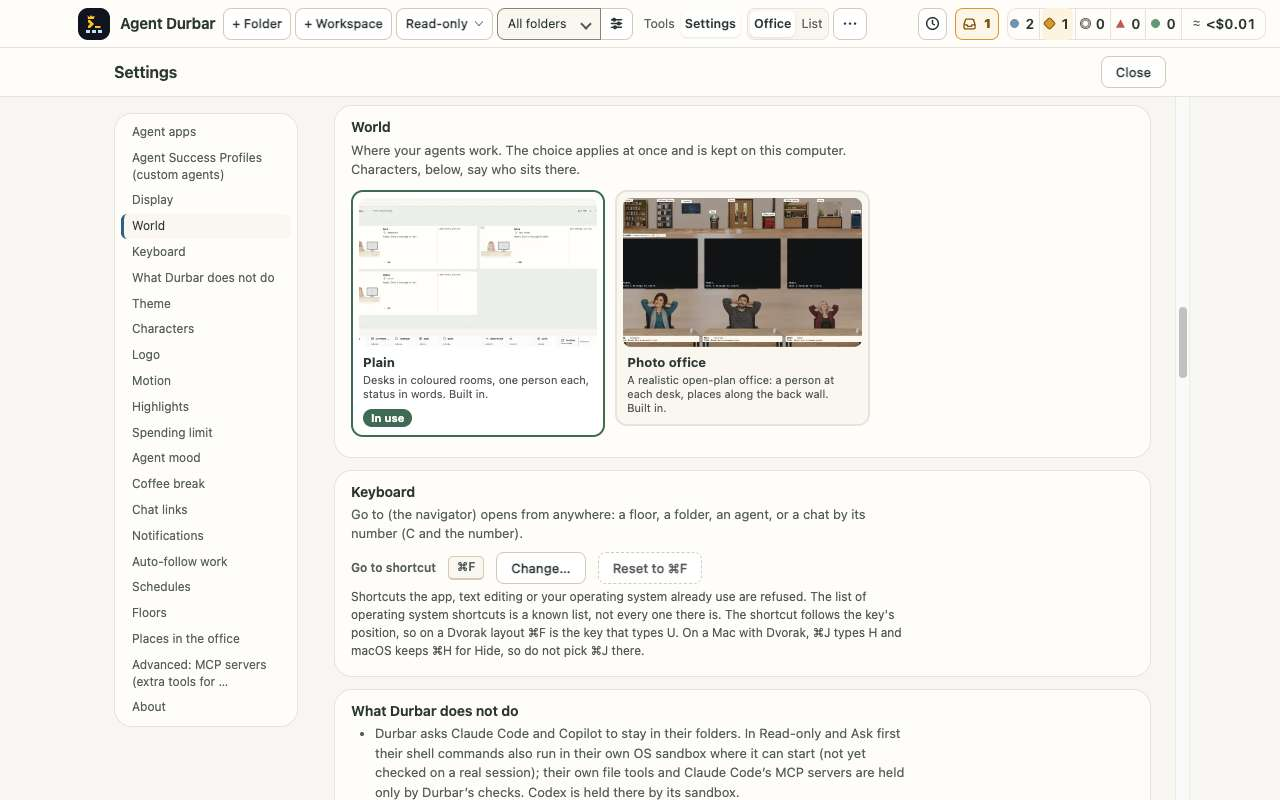
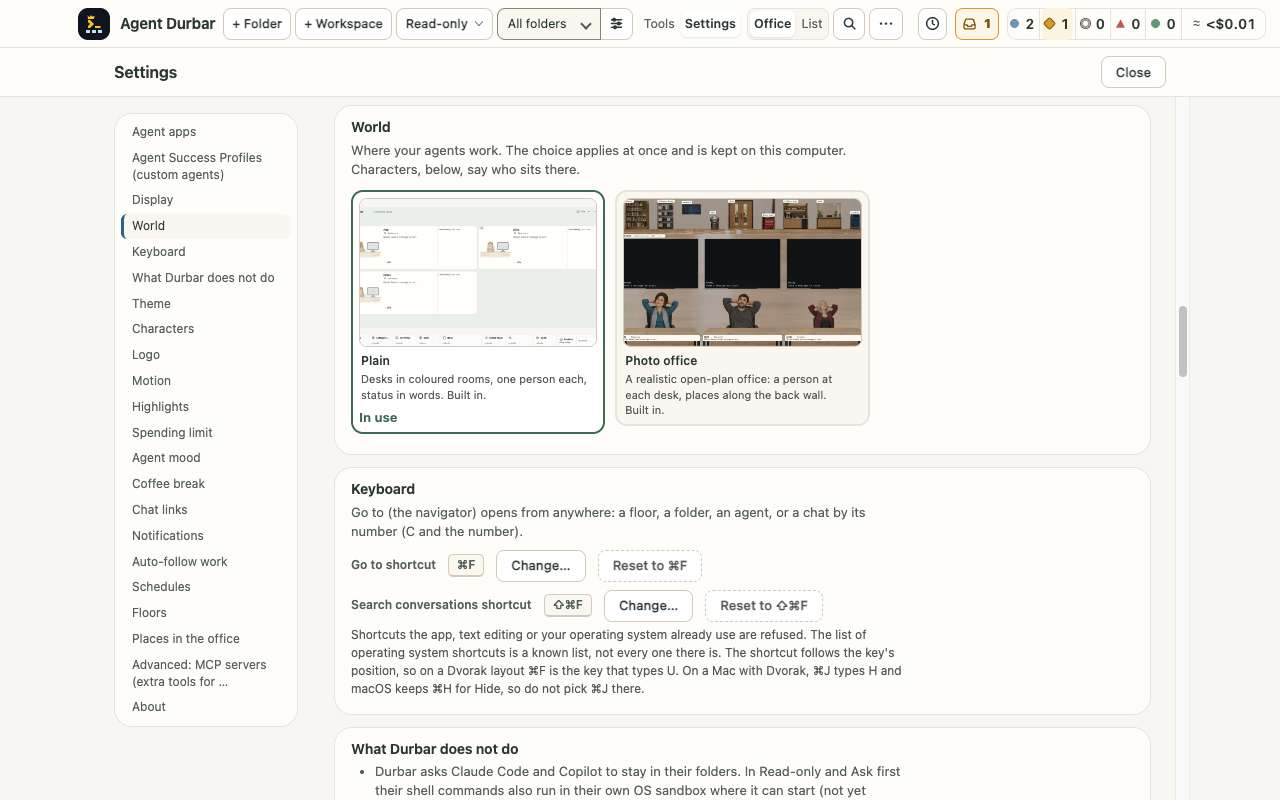
102: World cards reuse the picker card; pictures at the merged head
Refs #1400

diff --git a/src/renderer/screens.css b/src/renderer/screens.css
@@ -546,20 +546,18 @@ body.has-bridge #topBtns{display:flex}
 #screen:has(.scr-nav) .scr-head,html[data-platform="darwin"] .notice-strip:not([hidden]) ~ #screen:has(.scr-nav) .scr-head{--sn-pad:max(calc(var(--s-1)*6),calc(50% - var(--s-1)*131.5));padding-left:var(--sn-pad);padding-right:var(--sn-pad)}
 @media (max-width:759px){#screen:has(.scr-nav) .scr-head{padding-left:calc(var(--s-1)*6);padding-right:calc(var(--s-1)*6)}}
 
-/* ---- spec 102 FR-301 (T266): the World section, picture cards in one radio group ---- */
+/* ---- spec 102 FR-301 (T266): the World section, picture cards in one radio group (the theme picker's card, .thpick, with a picture) ---- */
 .wcards{grid-template-columns:repeat(auto-fill,minmax(220px,1fr))}
-.wcard{position:relative;display:flex;flex-direction:column;align-items:stretch;gap:6px;width:100%;min-height:44px;padding:6px;border:2px solid var(--line);border-radius:12px;background:var(--surface-2);cursor:pointer;text-align:left;font:inherit;color:var(--ink)}
-.wcard:hover{border-color:var(--line-2);background:var(--raised)}
-.wcard[aria-checked=true]{border-color:var(--accent);background:var(--raised)}
-.wcard:focus-visible{outline:2px solid var(--focus);outline-offset:3px} /* outside the card with a gap: focus never looks like the 2 px chosen edge */
-.wpic{display:block;overflow:hidden;border-radius:8px;aspect-ratio:8/5;background:var(--surface)}
+.thpick[data-world]{border-width:2px}
+.thpick[data-world]:hover{border-color:var(--line-2);background:var(--raised)}
+.thpick[data-world][aria-checked=true]{border-color:var(--accent);background:var(--raised)}
+.thpick[data-world]:focus-visible{outline:2px solid var(--focus);outline-offset:3px} /* outside the card with a gap: focus never looks like the 2 px chosen edge */
+.thpick[data-world] .wpic{height:auto;aspect-ratio:8/5;background:var(--surface)}
 .wpic img{display:block;width:100%;height:100%;object-fit:cover;transform-origin:var(--zx,50%) var(--zy,50%);transition:transform 220ms ease-out}
-.wcard:hover .wpic img,.wcard:focus-visible .wpic img{transform:scale(1.6)} /* FR-301: by transform only, inside the clip, toward the people: nothing around it moves */
+.thpick[data-world]:hover .wpic img,.thpick[data-world]:focus-visible .wpic img{transform:scale(1.6)} /* FR-301: by transform only, inside the clip, toward the people: nothing around it moves */
 html[data-motion-off] .wpic img{transition:none;transform:none!important}
 @media (prefers-reduced-motion:reduce){.wpic img{transition:none;transform:none!important}}
-.wnone{display:flex;align-items:center;justify-content:center;border:1px solid var(--line);font-size:12px;color:var(--muted)}
-.wtx{display:flex;flex-direction:column;gap:2px;min-width:0;padding:0 4px 2px}
-.wtx b{font-size:13px}
-.wtx small{font-size:11px;line-height:1.3;color:var(--muted)}
-.wuse{align-self:flex-start;margin:0 4px 2px;padding:1px 8px;border-radius:999px;background:var(--accent);color:var(--surface);font-size:11px;font-weight:700}
-@media (forced-colors:active){.wcard[aria-checked=true]{border-color:Highlight}.wcard:focus-visible{outline:2px solid CanvasText}.wuse{border:1px solid ButtonText;background:Canvas;color:CanvasText;forced-color-adjust:none}}
+.wnone{display:flex;align-items:center;justify-content:center;color:var(--muted)}
+.thpick[data-world] .thtx small{white-space:normal;overflow:visible}
+.wuse{align-self:flex-start;color:var(--accent)}
+@media (forced-colors:active){.thpick[data-world][aria-checked=true]{border-color:Highlight}.thpick[data-world]:focus-visible{outline:2px solid CanvasText}.wuse{color:CanvasText}}

diff --git a/scripts/check-settings-worlds.js b/scripts/check-settings-worlds.js
@@ -42,7 +42,7 @@ module.exports = async (ctx) => {
   };
   const names = () => js(`[...document.querySelectorAll(${jsLiteral(CARDS)})].map(b=>b.dataset.world)`);
   const checked = () => js(`[...document.querySelectorAll(${jsLiteral(CARDS)})].filter(b=>b.getAttribute('aria-checked')==='true').map(b=>b.dataset.world)`);
-  const rects = () => js(`[...document.querySelectorAll('#wrGroup, #wrGroup .wcard, #wrGroup .wcard .wpic, #wrGroup .wcard .wtx')].map(e=>{const r=e.getBoundingClientRect();return [Math.round(r.left*10),Math.round(r.top*10),Math.round(r.width*10),Math.round(r.height*10)].join(',')}).join('|')`);
+  const rects = () => js(`[...document.querySelectorAll('#wrGroup, #wrGroup [data-world], #wrGroup [data-world] .wpic, #wrGroup [data-world] .thtx')].map(e=>{const r=e.getBoundingClientRect();return [Math.round(r.left*10),Math.round(r.top*10),Math.round(r.width*10),Math.round(r.height*10)].join(',')}).join('|')`);
 
   for (const [w, h] of SIZES) {
     for (const [wname, query] of [['flat', { officeview: 'flat' }], ['real', { officeview: 'real' }]]) {
@@ -66,7 +66,7 @@ module.exports = async (ctx) => {
       assert.deepStrictEqual(await checked(), [want], `${tag}: exactly one card is checked, the one in use`);
       const look = await js(`(()=>{const probe=document.createElement('i');probe.style.color='var(--accent)';document.body.appendChild(probe);const acc=getComputedStyle(probe).color;probe.remove();
         return [...document.querySelectorAll(${jsLiteral(CARDS)})].map(b=>{const cs=getComputedStyle(b),r=b.getBoundingClientRect(),use=b.querySelector('.wuse');
-          const t=[...b.querySelectorAll('.wtx b,.wtx small,.wuse')].map(e=>parseFloat(getComputedStyle(e).fontSize));
+          const t=[...b.querySelectorAll('.thtx b,.thtx small,.wuse')].map(e=>parseFloat(getComputedStyle(e).fontSize));
           return {id:b.dataset.world,on:b.getAttribute('aria-checked')==='true',tab:b.tabIndex,bw:parseFloat(cs.borderTopWidth),bc:cs.borderTopColor,acc,use:use?use.textContent:'',h:r.height,w:r.width,minText:Math.min(...t),name:(document.getElementById(b.getAttribute('aria-labelledby'))||{}).textContent}})})()`);
       assert.strictEqual(look.filter((c) => c.tab === 0).length, 1, `${tag}: one Tab stop`);
       for (const c of look) {
@@ -105,7 +105,7 @@ module.exports = async (ctx) => {
 
       // ---- the zoom: transform only, about 1.6, nothing around it moves ----
       await js(`document.activeElement.blur();0`);
-      await ok(`!document.querySelector('#wrGroup .wcard:focus-visible')`, `${tag}: no card has focus`);
+      await ok(`!document.querySelector('#wrGroup [data-world]:focus-visible')`, `${tag}: no card has focus`);
       const before = await rects();
       const pos = await js(`(()=>{const r=document.querySelector(${jsLiteral(CARDS + '[data-world="photo"] .wpic')}).getBoundingClientRect();return {x:Math.round(r.left+r.width/2),y:Math.round(r.top+r.height/2)}})()`);
       wc.sendInputEvent({ type: 'mouseMove', x: pos.x, y: pos.y });

diff --git a/src/renderer/screens.js b/src/renderer/screens.js
@@ -791,8 +791,8 @@
     const cur=worldCur(), P=(window.DurbarWorldPreviews&&window.DurbarWorldPreviews.previews)||{};
     const card=w=>{
       const on=w.id===cur, pv=Object.prototype.hasOwnProperty.call(P,w.id)?P[w.id]:null;
-      const pic=pv?`<span class="wpic" aria-hidden="true"><img src="realoffice/previews/${esc(String(pv.file||'').replace(/[^\w.-]/g,''))}" alt="" width="${Number(pv.width)||640}" height="${Number(pv.height)||400}" draggable="false" style="--zx:${Number(pv.origin&&pv.origin.x)||50}%;--zy:${Number(pv.origin&&pv.origin.y)||50}%"></span>`:`<span class="wpic wnone" aria-hidden="true"><b>${esc(w.name)}</b></span>`;
-      return `<li class="throw"><button type="button" class="wcard" role="radio" data-world="${esc(w.id)}" aria-checked="${on}" tabindex="${on?'0':'-1'}" aria-labelledby="wn-${esc(w.id)}" aria-describedby="wl-${esc(w.id)}">${pic}<span class="wtx"><b id="wn-${esc(w.id)}">${esc(w.name)}</b><small id="wl-${esc(w.id)}">${esc(w.line)} Built in.</small></span>${on?'<span class="wuse">In use</span>':''}</button></li>`;
+      const pic=pv?`<span class="chsw wpic" aria-hidden="true"><img src="realoffice/previews/${esc(String(pv.file||'').replace(/[^\w.-]/g,''))}" alt="" width="${Number(pv.width)||640}" height="${Number(pv.height)||400}" draggable="false" style="--zx:${Number(pv.origin&&pv.origin.x)||50}%;--zy:${Number(pv.origin&&pv.origin.y)||50}%"></span>`:`<span class="chsw wpic wnone" aria-hidden="true"><b>${esc(w.name)}</b></span>`;
+      return `<li class="throw"><button type="button" class="thpick" role="radio" data-world="${esc(w.id)}" aria-checked="${on}" tabindex="${on?'0':'-1'}" aria-labelledby="wn-${esc(w.id)}" aria-describedby="wl-${esc(w.id)}">${pic}<span class="thtx"><b id="wn-${esc(w.id)}">${esc(w.name)}</b><small id="wl-${esc(w.id)}">${esc(w.line)} Built in.</small></span>${on?'<b class="wuse">In use</b>':''}</button></li>`;
     };
     return `<section class="scr-sec" aria-labelledby="worldH"><h3 id="worldH">World</h3>
         <p class="scr-note">Where your agents work. The choice applies at once and is kept on this computer. Characters, below, say who sits there.</p>
